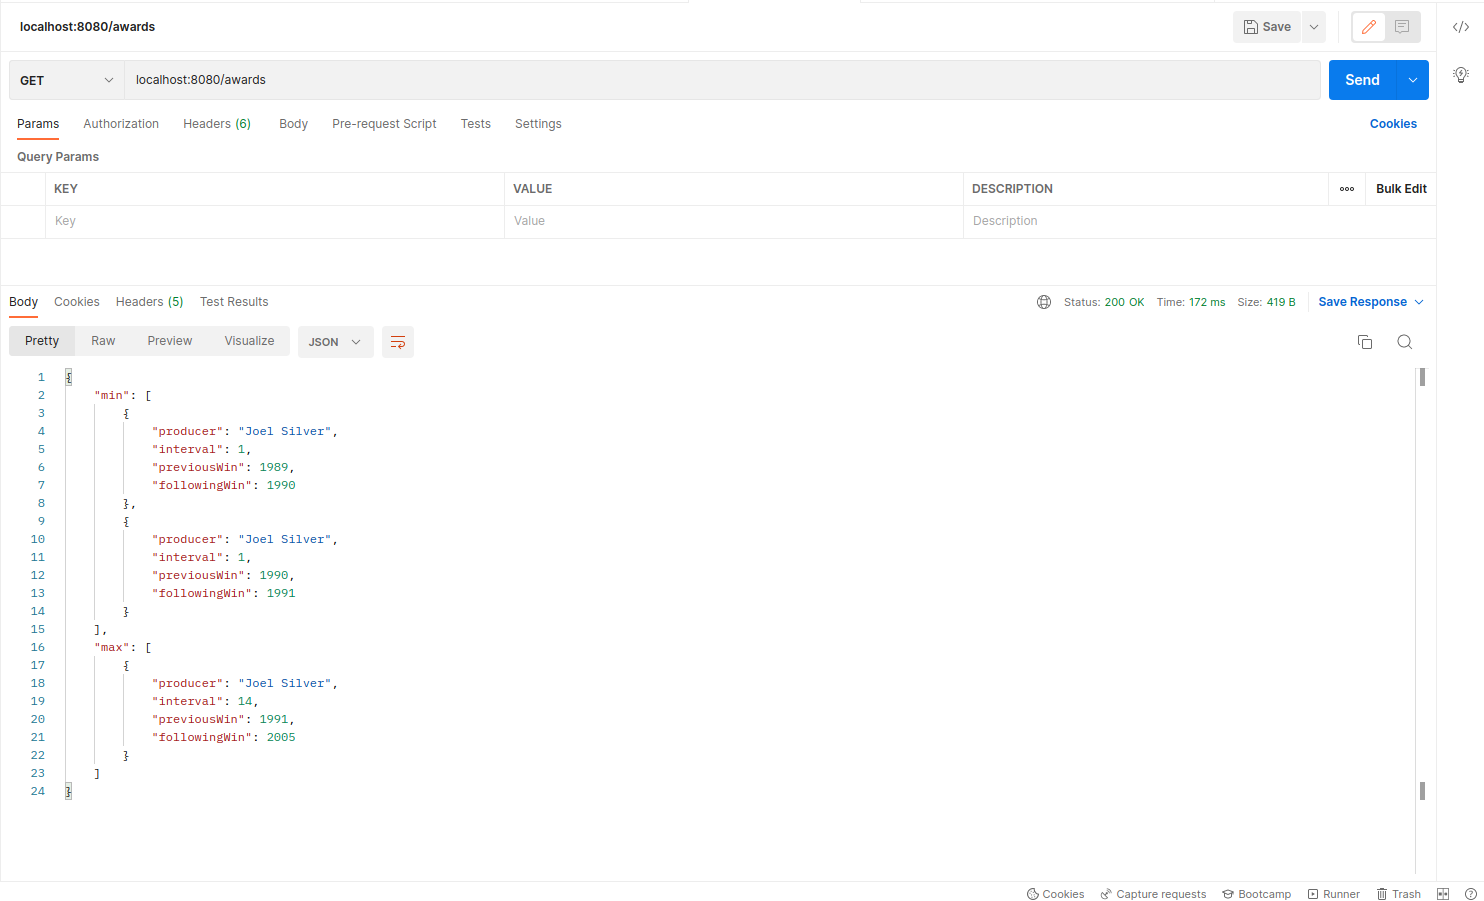
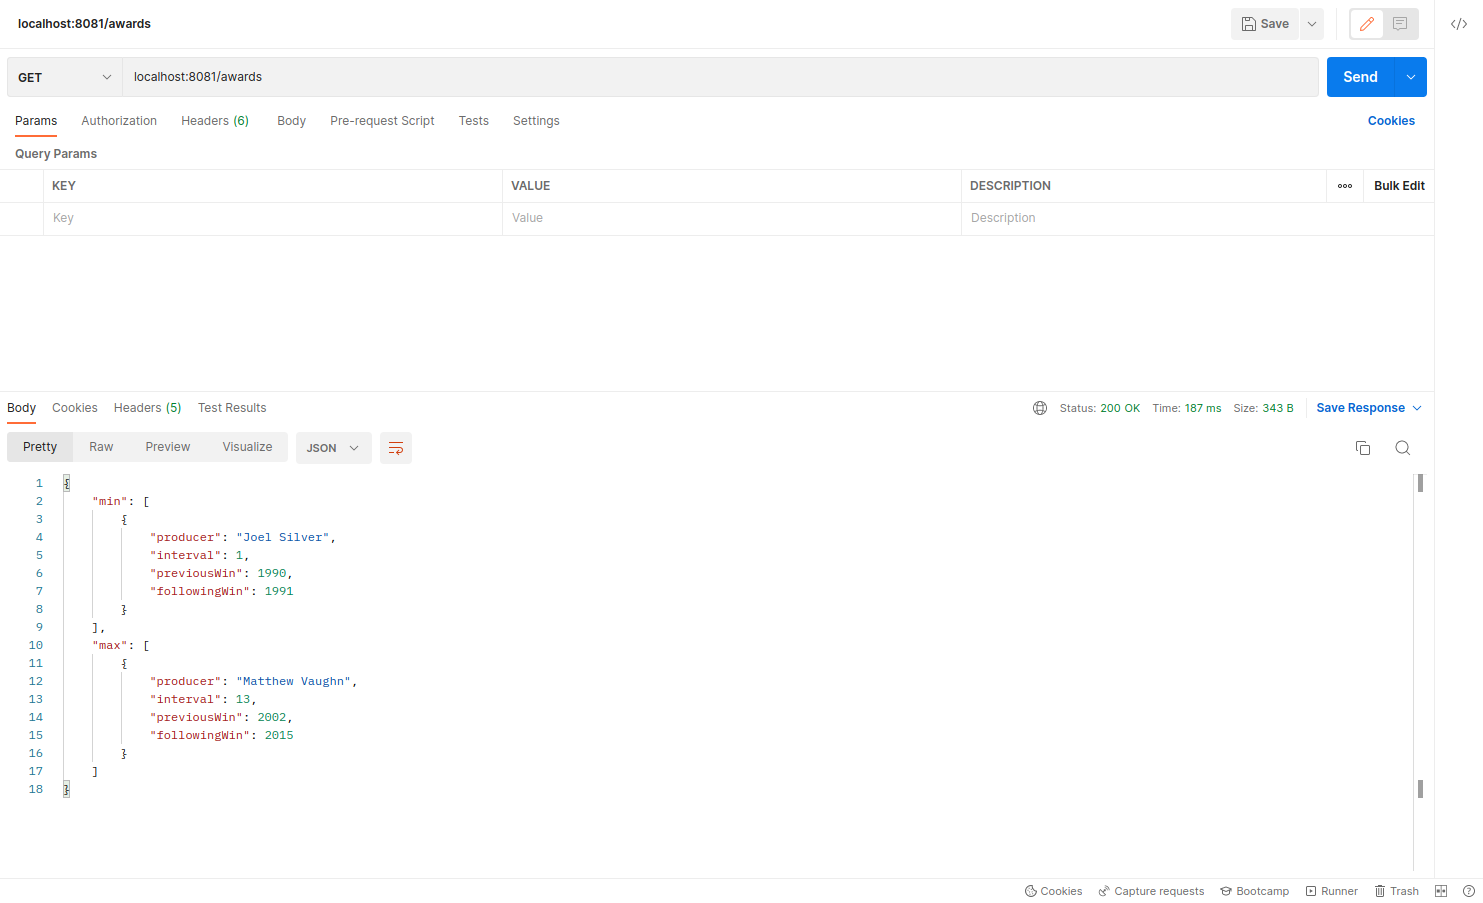
Correções na query para trazer somente vencedores

diff --git a/src/test/java/com/example/grp/codechallenge/producer/domain/ProducerRestControllerTest.java b/src/test/java/com/example/grp/codechallenge/producer/domain/ProducerRestControllerTest.java
@@ -29,15 +29,12 @@ class ProducerRestControllerTest {
 		PrizeInterval test = minimum.get(0);
 		assertEquals(1, test.getInterval());
 		
-		test = minimum.get(1);
-		assertEquals(1, test.getInterval());
-
 		List<PrizeInterval> max = result.getMax();
 		
 		assertFalse(max.isEmpty());
 		
 		test = max.get(0);
-		assertEquals(14, test.getInterval());
+		assertEquals(13, test.getInterval());
 	}
 	
 }

diff --git a/src/main/java/com/example/grp/codechallenge/producer/repository/ProducerRepository.java b/src/main/java/com/example/grp/codechallenge/producer/repository/ProducerRepository.java
@@ -55,6 +55,7 @@ public class ProducerRepository {
 		hql.append("		inner join movi2.producers prod2 ");
 		hql.append("		where movi2.winner = true ");
 		hql.append("		and prod2 = prod ) > 1 ");
+		hql.append("and movi.winner = true ");
 		hql.append("order by prod.name, movi.year ");
 		Query query = entityManager.createQuery(hql.toString());
 		return convertProducerWinner(query.getResultList());
